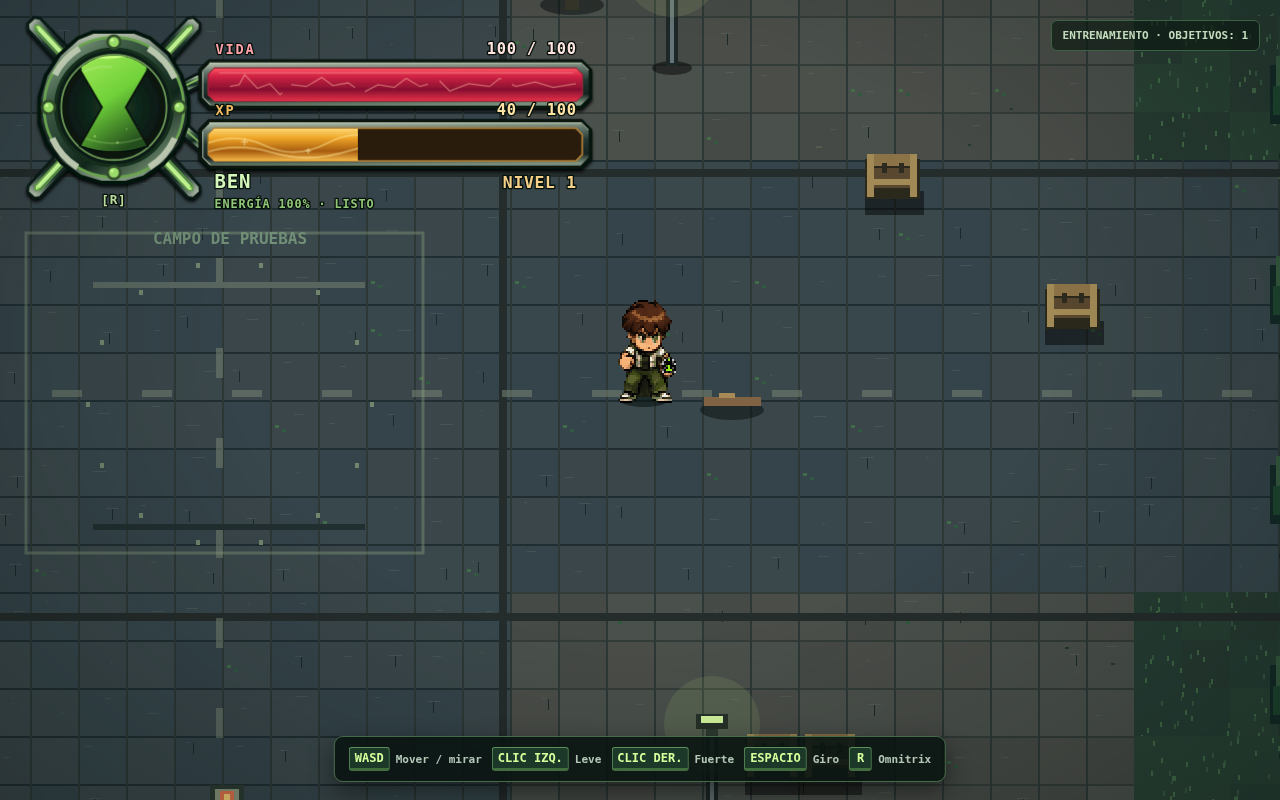
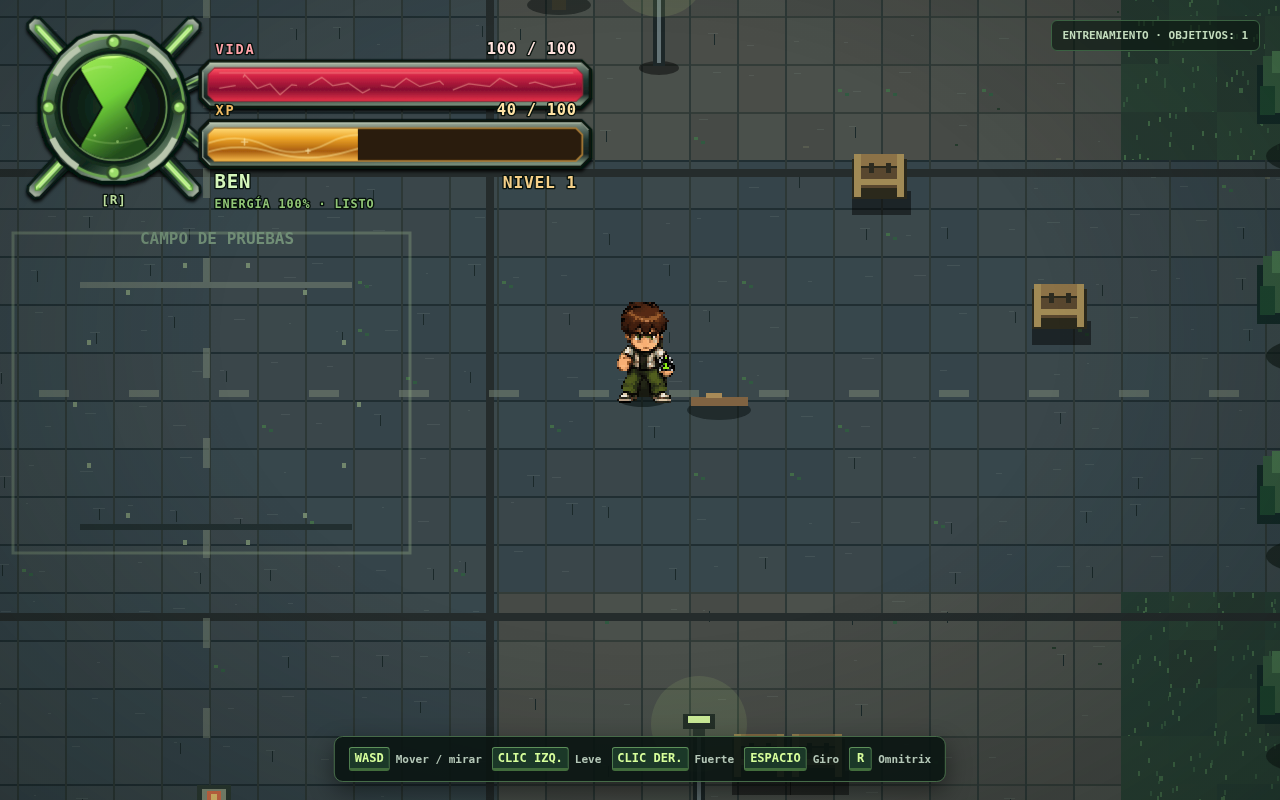
Fill the lower edge of the Omnitrix energy gauge

diff --git a/index.html b/index.html
@@ -70,6 +70,7 @@ kbd { display:inline-grid; place-items:center; min-height:23px; min-width:23px; 
    <linearGradient id="hudGreenTop" href="#hudGreen" gradientUnits="userSpaceOnUse" gradientTransform="matrix(84 0 0 107 68 52)"/>
    <clipPath id="hudHourglassTop"><path d="M74 60.8072 A57 57 0 0 1 146 60.8072 L146 64H74Z"/></clipPath>
    <radialGradient id="hudLens"><stop stop-color="#193a27"/><stop offset="1" stop-color="#07140f"/></radialGradient>
+   <clipPath id="hudHourglassBottom"><path d="M74 147H146L146 149.1928 A57 57 0 0 1 74 149.1928Z"/></clipPath>
    <clipPath id="hudHourglass"><path d="M74 64 Q110 50 146 64 L122 105 L146 147 Q110 160 74 147 L98 105Z"/></clipPath>
    <clipPath id="hudEnergyLiquidClip"><rect id="energyLiquidMask" x="68" y="52" width="84" height="107"/></clipPath>
    <clipPath id="hudHealthWindow"><path d="M221 62H619L626 69V91L619 98H221L214 91V69Z"/></clipPath>
@@ -92,6 +93,11 @@ kbd { display:inline-grid; place-items:center; min-height:23px; min-width:23px; 
     <path d="M74 60.8072 A57 57 0 0 1 146 60.8072 L146 64H74Z" fill="#294c32"/>
     <rect id="energyTopFill" x="68" y="48" width="84" height="16" fill="url(#hudGreenTop)"/>
     <path id="energyTopSurface" class="hud-energy-wave" d="M45 48Q65 44 85 48T125 48T165 48" fill="none" stroke="#caff82" stroke-width="3"/>
+   </g>
+   <g clip-path="url(#hudHourglassBottom)">
+    <path d="M74 147H146L146 149.1928 A57 57 0 0 1 74 149.1928Z" fill="#294c32"/>
+    <rect id="energyBottomFill" x="68" y="52" width="84" height="110" fill="url(#hudGreenTop)"/>
+    <path id="energyBottomSurface" class="hud-energy-wave" d="M45 48Q65 44 85 48T125 48T165 48" fill="none" stroke="#caff82" stroke-width="3"/>
    </g>
    <g clip-path="url(#hudHourglass)">
     <rect id="energyFill" x="68" y="52" width="84" height="107" fill="url(#hudGreen)"/>
@@ -329,7 +335,7 @@ let cam={x:0,y:0,zoom:1.11},t=0,lastTime=performance.now(),shake=0,flash=0;
 const player={x:1210,y:915,vx:0,vy:0,dir:'down',faceX:0,faceY:1,speed:247,health:100,mode:'idle',modeTime:0,modeDur:0,runClock:0,lightN:0,heavyN:0,lastLight:-5,lastHeavy:-5,lastDash:-5,hit:false,selectedAlien:-1,specialQueued:false,moving:false,idleClock:0,actionDir:'down',actionX:0,actionY:1};
 const stats=new Ben10Stats.PlayerStats();
 Object.defineProperty(player,'health',{get:()=>stats.health,set:value=>stats.setHealth(value),enumerable:true,configurable:true});
-const hudElements=Object.fromEntries(['hud','healthFill','healthClipWidth','healthText','healthGauge','xpFill','xpClipWidth','xpText','xpGauge','levelText','formName','energyFill','energyTopFill','energyTopSurface','hudGreenTop','energyLiquidMask','energySurface','energyText','energyGauge'].map(id=>[id,document.getElementById(id)]));
+const hudElements=Object.fromEntries(['hud','healthFill','healthClipWidth','healthText','healthGauge','xpFill','xpClipWidth','xpText','xpGauge','levelText','formName','energyFill','energyTopFill','energyTopSurface','energyBottomFill','energyBottomSurface','hudGreenTop','energyLiquidMask','energySurface','energyText','energyGauge'].map(id=>[id,document.getElementById(id)]));
 let hudSignature='',hudLevelFlash=0,hudHitFlash=0,hudLastHealth=stats.health;
 function syncHud(){
  const s=stats.snapshot(),energy=clamp(s.energy/s.maxEnergy,0,1),life=clamp(s.health/s.maxHealth,0,1),xp=clamp(s.xp/s.xpNeeded,0,1);
@@ -347,6 +353,7 @@ function syncHud(){
  hudElements.energyFill.setAttribute('y',surface);hudElements.energyFill.setAttribute('height',liquidHeight);hudElements.energyLiquidMask.setAttribute('y',surface);hudElements.energyLiquidMask.setAttribute('height',liquidHeight);
  hudElements.energyTopFill.setAttribute('y',topSurface);hudElements.energyTopFill.setAttribute('height',Math.max(0,64-topSurface));hudElements.hudGreenTop.setAttribute('gradientTransform',`matrix(84 0 0 ${liquidHeight||1} 68 ${surface})`);
  hudElements.energySurface.setAttribute('d',`M45 ${topSurface}Q65 ${topSurface-4} 85 ${topSurface}T125 ${topSurface}T165 ${topSurface}`);hudElements.energyTopSurface.setAttribute('d',hudElements.energySurface.getAttribute('d'));
+ hudElements.energyBottomFill.setAttribute('y',surface);hudElements.energyBottomFill.setAttribute('height',energy>0?Math.max(0,162-surface):0);hudElements.energyBottomSurface.setAttribute('d',hudElements.energySurface.getAttribute('d'));hudElements.energyBottomSurface.setAttribute('opacity',energy>0?1:0);
  const percent=Math.ceil(energy*100),status=s.form?'ACTIVO':full?'LISTO':'RECARGANDO';
  hudElements.energyText.textContent='ENERGÍA '+percent+'% · '+status;
  hudElements.energyGauge.setAttribute('aria-valuenow',Math.round(s.energy*10)/10);hudElements.energyGauge.setAttribute('aria-valuemax',s.maxEnergy);hudElements.energyGauge.setAttribute('aria-valuetext',percent+' por ciento. '+status.toLowerCase());
